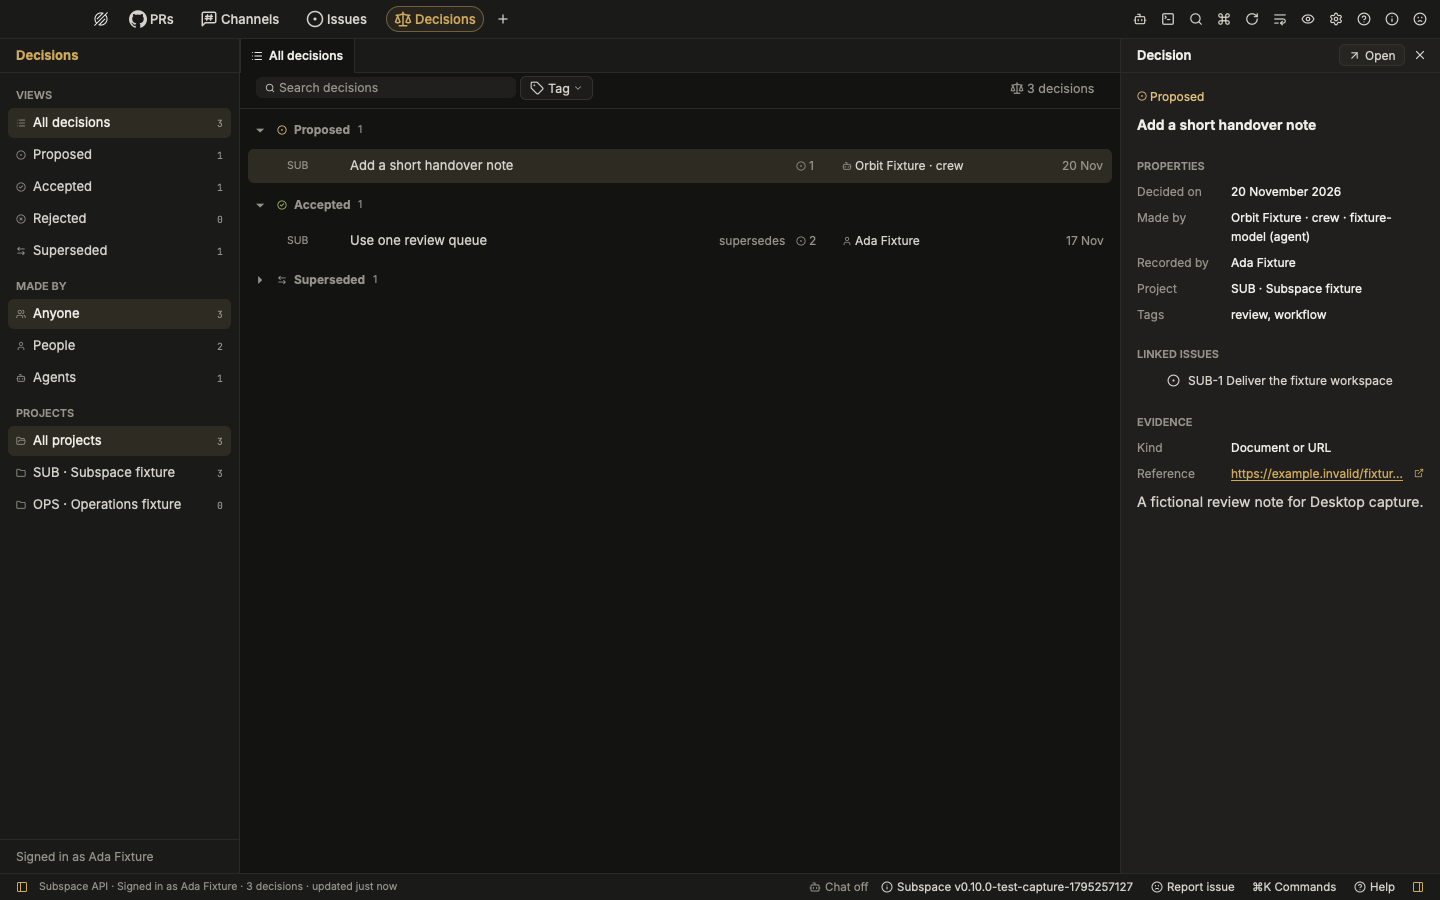
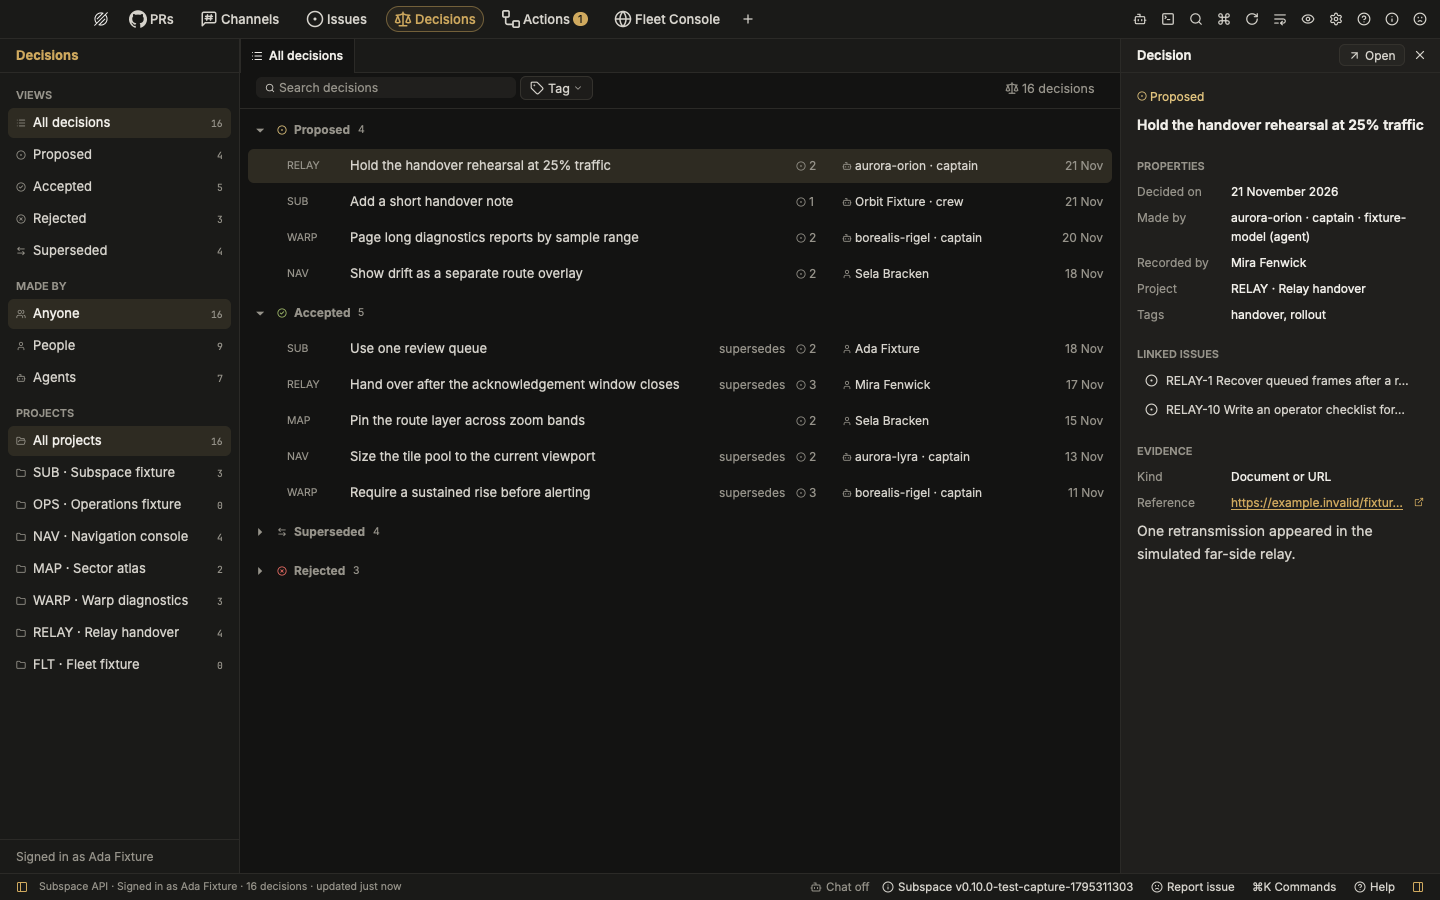
docs: replace the README app screenshots with a current set of twelve
The README showed four older captures, none of Channels, Actions or the
Fleet Console. Show each main Space, with fuller fictional data: Channels
with an issue's live tile, Issues and a tracker's page, Decisions, pull
requests and a pull request's page, Actions and a workflow run, and the
Fleet Console at fleet, ship and crew tier with the warp between a captain
and its crew.

Remove the three older captures nothing refers to.

diff --git a/README.md b/README.md
@@ -248,12 +248,34 @@ credential files that the installer provisions instead.
 ## Screenshots
 
 The desktop app in its Twilight Two theme, with fictional fixture data.
+Select an image to see it full size.
 
-| Issues, with the selected issue in the inspector | An open issue |
-| --- | --- |
-| <a href="docs/assets/screenshots/desktop-issues-twilight-two.png"><img src="docs/assets/screenshots/desktop-issues-twilight-two.png" width="440" alt="The Issues Space listing issues by workflow state, with views and projects in the navigator and the selected issue in the inspector"></a> | <a href="docs/assets/screenshots/desktop-issue-page-twilight-two.png"><img src="docs/assets/screenshots/desktop-issue-page-twilight-two.png" width="440" alt="An issue open in a tab beside the list, with its description and activity, and its properties in the inspector"></a> |
-| **Pull requests** | **Decisions** |
-| <a href="docs/assets/screenshots/desktop-pull-requests-twilight-two.png"><img src="docs/assets/screenshots/desktop-pull-requests-twilight-two.png" width="440" alt="The PRs Space listing pull requests across repositories, with the selected pull request in the inspector"></a> | <a href="docs/assets/screenshots/desktop-decisions-twilight-two.png"><img src="docs/assets/screenshots/desktop-decisions-twilight-two.png" width="440" alt="The Decisions Space listing decisions grouped by status, with the selected decision's maker, linked issues and supersession in the inspector"></a> |
+<table>
+<tr>
+<td width="50%" valign="top"><a href="docs/assets/screenshots/desktop-channels-twilight-two.png"><img src="docs/assets/screenshots/desktop-channels-twilight-two.png" width="440" alt="Channels, a custom IRC client, with the pointer over an issue reference so its live tile shows the issue's title, state and progress"></a><br><b>Channels.</b> People and captains in a ship channel. Hovering an issue shows its live tile.</td>
+<td width="50%" valign="top"><a href="docs/assets/screenshots/desktop-issues-twilight-two.png"><img src="docs/assets/screenshots/desktop-issues-twilight-two.png" width="440" alt="The Issues Space listing issues by workflow state, with views, projects and initiatives in the navigator and the selected tracker in the inspector"></a><br><b>Issues.</b> Grouped by workflow state, with the selected tracker in the inspector.</td>
+</tr>
+<tr>
+<td width="50%" valign="top"><a href="docs/assets/screenshots/desktop-issue-page-twilight-two.png"><img src="docs/assets/screenshots/desktop-issue-page-twilight-two.png" width="440" alt="A tracker issue open in a tab, with an image, an attachment, its sub-issues and linked pull requests, and its properties in the inspector"></a><br><b>An issue.</b> A tracker with an image, an attached document, sub-issues and its pull requests.</td>
+<td width="50%" valign="top"><a href="docs/assets/screenshots/desktop-decisions-twilight-two.png"><img src="docs/assets/screenshots/desktop-decisions-twilight-two.png" width="440" alt="The Decisions Space listing decisions by status, with filters for people and agents and the selected decision's maker, linked issues and evidence in the inspector"></a><br><b>Decisions.</b> What was decided, by a person or an agent, and what superseded it.</td>
+</tr>
+<tr>
+<td width="50%" valign="top"><a href="docs/assets/screenshots/desktop-pull-requests-twilight-two.png"><img src="docs/assets/screenshots/desktop-pull-requests-twilight-two.png" width="440" alt="The PRs Space listing pull requests across repositories, with the selected pull request's reviewers and checks in the inspector"></a><br><b>Pull requests.</b> Across repositories, with reviewers and checks in the inspector.</td>
+<td width="50%" valign="top"><a href="docs/assets/screenshots/desktop-pull-request-page-twilight-two.png"><img src="docs/assets/screenshots/desktop-pull-request-page-twilight-two.png" width="440" alt="A pull request open in a tab, with its description, testing notes and review activity"></a><br><b>A pull request.</b> Its description, review activity and checks, with approve and comment to hand.</td>
+</tr>
+<tr>
+<td width="50%" valign="top"><a href="docs/assets/screenshots/desktop-actions-twilight-two.png"><img src="docs/assets/screenshots/desktop-actions-twilight-two.png" width="440" alt="The Actions Space listing workflow runs by workflow, with a failed run selected and its jobs in the inspector"></a><br><b>Actions.</b> Workflow runs across repositories, with the selected run's jobs in the inspector.</td>
+<td width="50%" valign="top"><a href="docs/assets/screenshots/desktop-actions-run-twilight-two.png"><img src="docs/assets/screenshots/desktop-actions-run-twilight-two.png" width="440" alt="A failed workflow run open in a tab, with its trigger, commit, jobs and steps"></a><br><b>A workflow run.</b> Its trigger, commit, jobs and steps.</td>
+</tr>
+<tr>
+<td width="50%" valign="top"><a href="docs/assets/screenshots/desktop-fleet-console-twilight-two.png"><img src="docs/assets/screenshots/desktop-fleet-console-twilight-two.png" width="440" alt="The Fleet Console at fleet tier: the rear admiral in the centre with four captains in orbit, and the fleet's host and system figures in the inspector"></a><br><b>Fleet Console.</b> A fleet: its rear admiral, four captains, and the VM's CPU, memory and disks.</td>
+<td width="50%" valign="top"><a href="docs/assets/screenshots/desktop-fleet-console-warp-twilight-two.png"><img src="docs/assets/screenshots/desktop-fleet-console-warp-twilight-two.png" width="440" alt="The Fleet Console part-way through the warp from a captain into one of its crew"></a><br><b>Warping in.</b> From a captain to one of its crew.</td>
+</tr>
+<tr>
+<td width="50%" valign="top"><a href="docs/assets/screenshots/desktop-fleet-console-ship-twilight-two.png"><img src="docs/assets/screenshots/desktop-fleet-console-ship-twilight-two.png" width="440" alt="The Fleet Console at ship tier: a captain with its four crew, each showing its branch and linked issue, and the captain's queue in the inspector"></a><br><b>A ship.</b> The captain, its queue and each crew member's branch and issue.</td>
+<td width="50%" valign="top"><a href="docs/assets/screenshots/desktop-fleet-console-crew-twilight-two.png"><img src="docs/assets/screenshots/desktop-fleet-console-crew-twilight-two.png" width="440" alt="The Fleet Console at crew tier: a crew member's current task, issues, Git state and pull request"></a><br><b>A crew member.</b> Its current task, issues, Git state and pull request.</td>
+</tr>
+</table>
 
 ## Run the whole system locally
 
